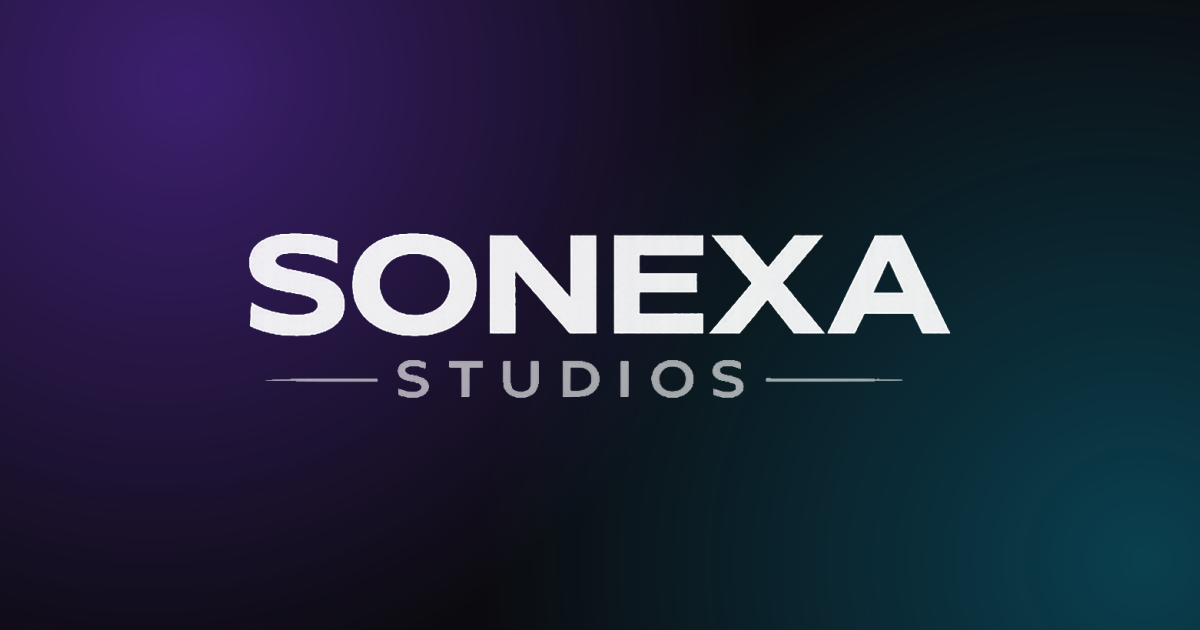
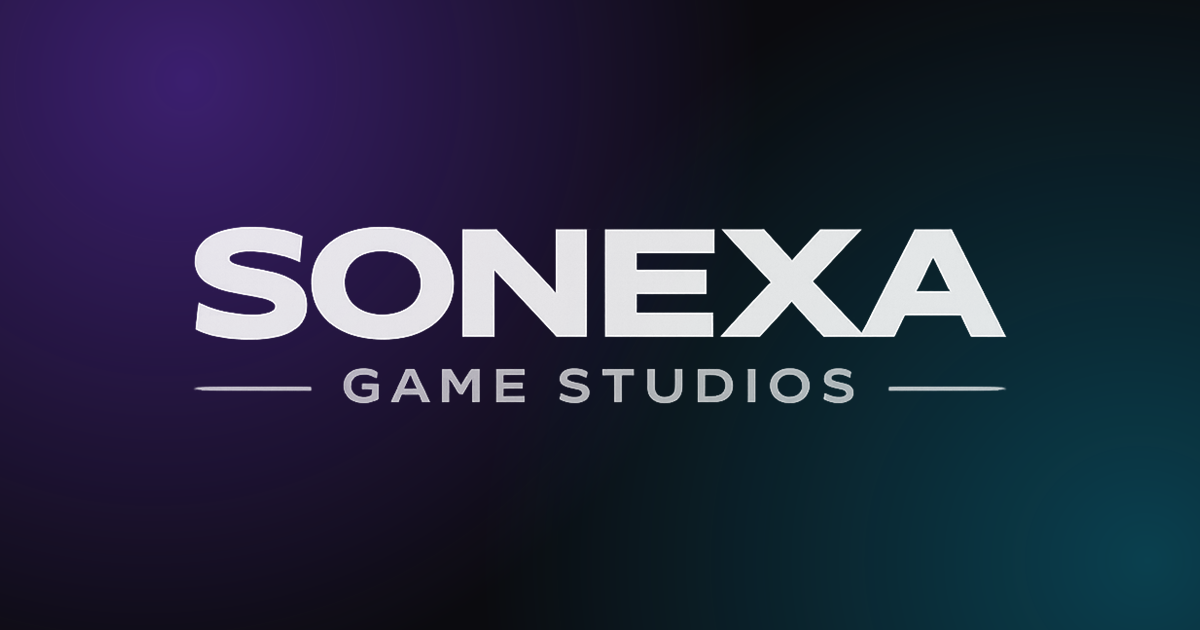
Rebrand to Sonexa Game Studios
New wordmark (SONEXA / GAME STUDIOS) replaces the old lockup, with a
regenerated white-on-transparent variant and OG image. Renames the
studio across the site, the 404 page, and all three privacy policies.

Hero logo width/height attributes updated to the new 843x188 lockup so
the image keeps its intrinsic ratio. Android package names are
deliberately untouched - they are permanent and stay com.sonexastudios.*

Changed region(s): [[0.1542, 0.3619, 0.8325, 0.5429], [0.1542, 0.573, 0.8325, 0.6635]]

diff --git a/index.html b/index.html
@@ -3,9 +3,9 @@
 <head>
   <meta charset="utf-8">
   <meta name="viewport" content="width=device-width, initial-scale=1">
-  <title>Sonexa Studios — Indie Games Made With Heart</title>
-  <meta name="description" content="Sonexa Studios is an independent game studio behind DrumHit, Tower To Space, and Wobbins: Hide & Hue. Rhythm, arcade, and cozy multiplayer games for mobile.">
-  <meta property="og:title" content="Sonexa Studios">
+  <title>Sonexa Game Studios — Indie Games Made With Heart</title>
+  <meta name="description" content="Sonexa Game Studios is an independent game studio behind DrumHit, Tower To Space, and Wobbins: Hide & Hue. Rhythm, arcade, and cozy multiplayer games for mobile.">
+  <meta property="og:title" content="Sonexa Game Studios">
   <meta property="og:description" content="Indie game studio behind DrumHit, Tower To Space, and Wobbins: Hide & Hue.">
   <meta property="og:image" content="https://rickc2025.github.io/assets/brand/og-image.png">
   <meta property="og:url" content="https://rickc2025.github.io/">
@@ -22,7 +22,7 @@
   {
     "@context": "https://schema.org",
     "@type": "Organization",
-    "name": "Sonexa Studios",
+    "name": "Sonexa Game Studios",
     "url": "https://rickc2025.github.io/",
     "logo": "https://rickc2025.github.io/assets/brand/sonexa-logo.png",
     "email": "akosiricardocosta@gmail.com",
@@ -34,8 +34,8 @@
 
   <nav class="nav" id="nav">
     <div class="wrap">
-      <a class="nav-logo" href="#top" aria-label="Sonexa Studios — home">
-        <img src="/assets/brand/sonexa-logo-white.png" alt="Sonexa Studios">
+      <a class="nav-logo" href="#top" aria-label="Sonexa Game Studios — home">
+        <img src="/assets/brand/sonexa-logo-white.png" alt="Sonexa Game Studios">
       </a>
       <button class="nav-burger" id="burger" aria-label="Menu" aria-expanded="false" aria-controls="navlinks">
         <span></span><span></span><span></span>
@@ -55,7 +55,7 @@
     <div class="hero-grid" aria-hidden="true"></div>
 
     <div class="hero-inner">
-      <img class="hero-logo" src="/assets/brand/sonexa-logo-white.png" alt="Sonexa Studios" width="937" height="238">
+      <img class="hero-logo" src="/assets/brand/sonexa-logo-white.png" alt="Sonexa Game Studios" width="843" height="188">
       <h1 class="hero-tag">Games made with heart</h1>
       <p class="hero-sub">An independent studio crafting rhythm, arcade, and cozy multiplayer worlds — built by hand, tuned by feel.</p>
       <div class="hero-cta">
@@ -73,8 +73,8 @@
 
   <div class="marquee" aria-hidden="true">
     <div class="marquee-track">
-      <span>DrumHit</span><span class="solid">Tower To Space</span><span>Wobbins: Hide &amp; Hue</span><span class="solid">Sonexa Studios</span>
-      <span>DrumHit</span><span class="solid">Tower To Space</span><span>Wobbins: Hide &amp; Hue</span><span class="solid">Sonexa Studios</span>
+      <span>DrumHit</span><span class="solid">Tower To Space</span><span>Wobbins: Hide &amp; Hue</span><span class="solid">Sonexa Game Studios</span>
+      <span>DrumHit</span><span class="solid">Tower To Space</span><span>Wobbins: Hide &amp; Hue</span><span class="solid">Sonexa Game Studios</span>
     </div>
   </div>
 
@@ -192,7 +192,7 @@
         <div class="about-copy reveal">
           <span class="sec-kicker">About us</span>
           <h2 class="sec-title">Small studio.<br>Big feelings.</h2>
-          <p><strong>Sonexa Studios</strong> is an independent game studio making mobile games with personality. No big teams, no committees — just hands-on craft, from the first sketch to the last sound effect.</p>
+          <p><strong>Sonexa Game Studios</strong> is an independent game studio making mobile games with personality. No big teams, no committees — just hands-on craft, from the first sketch to the last sound effect.</p>
           <p>Our games start as things we personally love: a drummer's itch to play along with every song, the simple joy of stacking blocks a little too high, the childhood thrill of hide-and-seek. Then we polish them until they feel just right.</p>
         </div>
         <div class="values">
@@ -208,7 +208,7 @@
         <span class="sec-kicker">Contact</span>
         <h2 class="sec-title">Say hello</h2>
         <p class="sec-sub">Feedback, bug reports, business, or just want to share your high score? We read everything.</p>
-        <a class="btn btn-primary" href="mailto:akosiricardocosta@gmail.com">✉&nbsp; Email Sonexa Studios</a>
+        <a class="btn btn-primary" href="mailto:akosiricardocosta@gmail.com">✉&nbsp; Email Sonexa Game Studios</a>
       </div>
     </section>
   </main>
@@ -216,7 +216,7 @@
   <footer class="footer">
     <div class="wrap">
       <div>
-        <a class="footer-logo" href="#top"><img src="/assets/brand/sonexa-logo-white.png" alt="Sonexa Studios"></a>
+        <a class="footer-logo" href="#top"><img src="/assets/brand/sonexa-logo-white.png" alt="Sonexa Game Studios"></a>
         <p class="footer-note">Independent game studio crafting rhythm, arcade, and cozy multiplayer experiences.</p>
       </div>
       <div class="footer-cols">
@@ -246,7 +246,7 @@
       </div>
       <div></div>
     </div>
-    <div class="wrap copyright">© 2026 Sonexa Studios. All rights reserved.</div>
+    <div class="wrap copyright">© 2026 Sonexa Game Studios. All rights reserved.</div>
   </footer>
 
   <div class="lightbox" id="lightbox" role="dialog" aria-modal="true" aria-label="Screenshot viewer">

diff --git a/privacy/tower-to-space/index.html b/privacy/tower-to-space/index.html
@@ -3,8 +3,8 @@
 <head>
 <meta charset="utf-8">
 <meta name="viewport" content="width=device-width, initial-scale=1">
-<title>Tower To Space — Privacy Policy | Sonexa Studios</title>
-<meta name="description" content="Privacy policy for Tower To Space by Sonexa Studios.">
+<title>Tower To Space — Privacy Policy | Sonexa Game Studios</title>
+<meta name="description" content="Privacy policy for Tower To Space by Sonexa Game Studios.">
 <meta name="theme-color" content="#0b0b0f">
 <link rel="icon" type="image/png" href="/assets/brand/favicon.png">
 <style>
@@ -30,14 +30,14 @@
 </head>
 <body>
 <main>
-  <a class="home" href="/">&larr; Sonexa Studios</a>
+  <a class="home" href="/">&larr; Sonexa Game Studios</a>
   <header>
     <h1>Privacy Policy for <em>Tower To Space</em></h1>
     <p class="updated">Last updated: April 29, 2026</p>
   </header>
 
   <p>This Privacy Policy explains how <strong>Tower to Space</strong>, published by
-  <strong>Sonexa Studios</strong>, handles information when you use the game.</p>
+  <strong>Sonexa Game Studios</strong>, handles information when you use the game.</p>
 
   <h2>1. Information We Collect</h2>
   <p>Tower to Space itself does not require users to create an account and does not
@@ -99,10 +99,10 @@
 
   <h2>10. Contact</h2>
   <p>If you have any questions about this Privacy Policy, you can contact:</p>
-  <p><strong>Sonexa Studios</strong><br>
+  <p><strong>Sonexa Game Studios</strong><br>
   Email: <a href="mailto:akosiricardocosta@gmail.com">akosiricardocosta@gmail.com</a></p>
 
-  <footer>Tower To Space — Google Play package <code>com.sonexastudios.towertospace</code> · <a href="/">sonexa studios</a></footer>
+  <footer>Tower To Space — Google Play package <code>com.sonexastudios.towertospace</code> · <a href="/">sonexa game studios</a></footer>
 </main>
 </body>
 </html>

diff --git a/privacy/drumhit/index.html b/privacy/drumhit/index.html
@@ -3,8 +3,8 @@
 <head>
 <meta charset="utf-8">
 <meta name="viewport" content="width=device-width, initial-scale=1">
-<title>DrumHit — Privacy Policy | Sonexa Studios</title>
-<meta name="description" content="Privacy policy for DrumHit by Sonexa Studios.">
+<title>DrumHit — Privacy Policy | Sonexa Game Studios</title>
+<meta name="description" content="Privacy policy for DrumHit by Sonexa Game Studios.">
 <meta name="theme-color" content="#0b0b0f">
 <link rel="icon" type="image/png" href="/assets/brand/favicon.png">
 <style>
@@ -30,14 +30,14 @@
 </head>
 <body>
 <main>
-  <a class="home" href="/">&larr; Sonexa Studios</a>
+  <a class="home" href="/">&larr; Sonexa Game Studios</a>
   <header>
     <h1>Privacy Policy for <em>DrumHit</em></h1>
     <p class="updated">Last updated: June 16, 2026</p>
   </header>
 
   <p>This Privacy Policy explains how the <strong>DrumHit</strong> mobile application
-  ("the App", "we", "us"), published by <strong>Sonexa Studios</strong>, handles
+  ("the App", "we", "us"), published by <strong>Sonexa Game Studios</strong>, handles
   information when you use it. By using DrumHit you agree to this policy.</p>
 
   <h2>1. Information we collect directly</h2>
@@ -95,10 +95,10 @@
 
   <h2>9. Contact</h2>
   <p>If you have any questions about this Privacy Policy, contact us at:
-  <br><strong>Sonexa Studios</strong>
+  <br><strong>Sonexa Game Studios</strong>
   <br>Email: <a href="mailto:akosiricardocosta@gmail.com">akosiricardocosta@gmail.com</a></p>
 
-  <footer>DrumHit — Google Play package <code>com.sonexastudios.drumhit</code> · <a href="/">sonexa studios</a></footer>
+  <footer>DrumHit — Google Play package <code>com.sonexastudios.drumhit</code> · <a href="/">sonexa game studios</a></footer>
 </main>
 </body>
 </html>

diff --git a/privacy/wobbins-hide-and-hue/index.html b/privacy/wobbins-hide-and-hue/index.html
@@ -3,7 +3,7 @@
 <head>
 <meta charset="utf-8">
 <meta name="viewport" content="width=device-width, initial-scale=1">
-<title>Wobbins: Hide &amp; Hue — Privacy Policy | Sonexa Studios</title>
+<title>Wobbins: Hide &amp; Hue — Privacy Policy | Sonexa Game Studios</title>
 <meta name="description" content="What Wobbins: Hide &amp; Hue collects, why, and what you can do about it.">
 <meta name="theme-color" content="#0b0b0f">
 <link rel="icon" type="image/png" href="/assets/brand/favicon.png">
@@ -33,14 +33,14 @@
 </head>
 <body>
 <main>
-  <a class="home" href="/">&larr; Sonexa Studios</a>
+  <a class="home" href="/">&larr; Sonexa Game Studios</a>
   <header>
     <h1>Privacy Policy — <em>Wobbins: Hide &amp; Hue</em></h1>
     <p class="updated">Last updated: 31 July 2026</p>
   </header>
 
   <div class="lede">
-    <p>Wobbins: Hide &amp; Hue (&ldquo;the game&rdquo;) is developed by Sonexa Studios. This policy
+    <p>Wobbins: Hide &amp; Hue (&ldquo;the game&rdquo;) is developed by Sonexa Game Studios. This policy
     explains what the game collects, why, and what you can do about it.</p>
   </div>
 
@@ -100,7 +100,7 @@
   <p>Questions about this policy:
   <a href="mailto:akosiricardocosta@gmail.com">akosiricardocosta@gmail.com</a></p>
 
-  <footer>Wobbins: Hide &amp; Hue — Google Play package <code>com.sonexastudios.hidehue</code> · <a href="/">sonexa studios</a></footer>
+  <footer>Wobbins: Hide &amp; Hue — Google Play package <code>com.sonexastudios.hidehue</code> · <a href="/">sonexa game studios</a></footer>
 </main>
 </body>
 </html>

diff --git a/404.html b/404.html
@@ -3,7 +3,7 @@
 <head>
 <meta charset="utf-8">
 <meta name="viewport" content="width=device-width, initial-scale=1">
-<title>404 — Sonexa Studios</title>
+<title>404 — Sonexa Game Studios</title>
 <meta name="theme-color" content="#0b0b0f">
 <link rel="icon" type="image/png" href="/assets/brand/favicon.png">
 <style>
@@ -24,7 +24,7 @@
 <body>
 <div class="glow v"></div><div class="glow c"></div>
 <main>
-  <img src="/assets/brand/sonexa-logo-white.png" alt="Sonexa Studios">
+  <img src="/assets/brand/sonexa-logo-white.png" alt="Sonexa Game Studios">
   <h1>404</h1>
   <p>This level doesn't exist — yet.</p>
   <a href="/">Back to home base</a>

diff --git a/css/style.css b/css/style.css
@@ -1,5 +1,5 @@
 /* ============================================================
-   Sonexa Studios — studio site
+   Sonexa Game Studios — studio site
    Palette derives from the monochrome wordmark + per-game accents
    ============================================================ */
 

diff --git a/js/main.js b/js/main.js
@@ -1,4 +1,4 @@
-/* Sonexa Studios — interactions */
+/* Sonexa Game Studios — interactions */
 (() => {
   "use strict";
 

diff --git a/README.md b/README.md
@@ -1,6 +1,6 @@
-# Sonexa Studios — rickc2025.github.io
+# Sonexa Game Studios — rickc2025.github.io
 
-Official website for **Sonexa Studios**, served by GitHub Pages at
+Official website for **Sonexa Game Studios**, served by GitHub Pages at
 https://rickc2025.github.io/
 
 ## Structure
